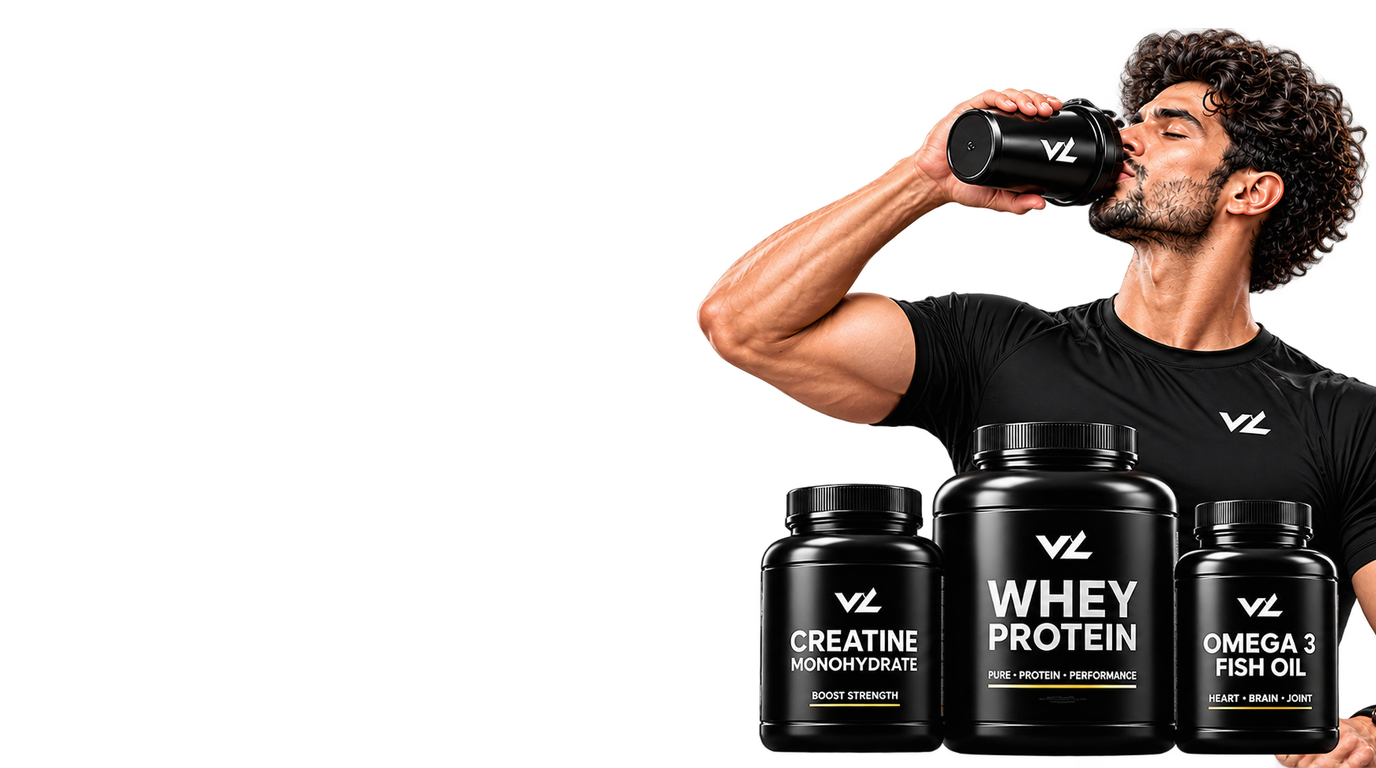
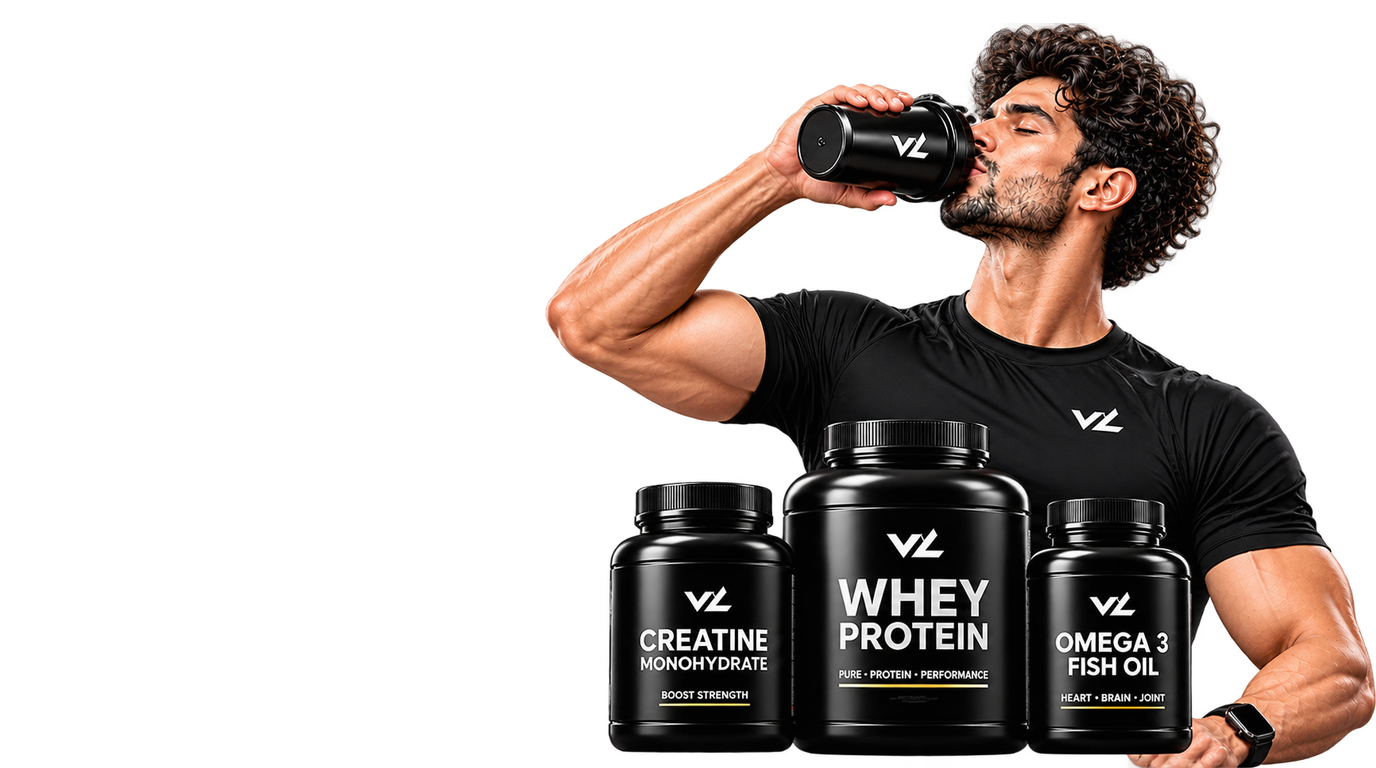
style(hero): reduce headline size on mobile UI and align cutouts flush right

diff --git a/src/components/VittalLifestyleStorefront.tsx b/src/components/VittalLifestyleStorefront.tsx
@@ -215,14 +215,14 @@ export function VittalLifestyleStorefront({ initialProducts }: VittalLifestyleSt
           </div>
 
           {/* Static Left Content Overlay (Never changes) */}
-          <div className="relative z-10 px-5 sm:px-8 lg:px-12 py-6 sm:py-8 md:py-10 max-w-[64%] sm:max-w-md md:max-w-lg lg:max-w-xl">
+          <div className="relative z-10 px-4 sm:px-8 lg:px-12 py-5 sm:py-8 md:py-10 max-w-[50%] xs:max-w-[48%] sm:max-w-md md:max-w-lg lg:max-w-xl">
             {/* Black Pill Eyebrow Badge */}
-            <div className="inline-block bg-[#111111] text-white text-[10px] sm:text-xs font-semibold px-3 sm:px-3.5 py-1 rounded-full mb-2.5 sm:mb-3.5 shadow-xs">
+            <div className="inline-block bg-[#111111] text-white text-[9px] sm:text-xs font-semibold px-2.5 sm:px-3.5 py-0.5 sm:py-1 rounded-full mb-2 sm:mb-3.5 shadow-xs">
               Limited Offer
             </div>
 
-            {/* Headline matching reference */}
-            <h1 className="font-mograph font-bold text-xl sm:text-3xl md:text-4xl lg:text-5xl text-[#111111] leading-[1.12] tracking-tight mb-3.5 sm:mb-6">
+            {/* Headline matching reference - mobile size reduced for clean separation from cutouts */}
+            <h1 className="font-mograph font-bold text-[15px] xs:text-base sm:text-2xl md:text-3xl lg:text-4xl xl:text-5xl text-[#111111] leading-tight sm:leading-[1.12] tracking-tight mb-2.5 sm:mb-6">
               First Purchase Enjoy
               <br />
               a Special Offer
@@ -231,11 +231,11 @@ export function VittalLifestyleStorefront({ initialProducts }: VittalLifestyleSt
             {/* Black Pill CTA Button with White Circle Up-Right Arrow -> Redirects to /products */}
             <Link
               href="/products"
-              className="inline-flex items-center gap-3 bg-[#111111] hover:bg-black text-white font-bold text-xs sm:text-sm pl-4.5 pr-1.5 py-1.5 sm:pl-5 sm:pr-2 sm:py-2 rounded-full transition-all duration-300 shadow-md hover:shadow-lg hover:scale-105 group"
+              className="inline-flex items-center gap-2 sm:gap-3 bg-[#111111] hover:bg-black text-white font-bold text-[11px] sm:text-sm pl-3.5 pr-1 py-1 sm:pl-5 sm:pr-2 sm:py-2 rounded-full transition-all duration-300 shadow-md hover:shadow-lg hover:scale-105 group"
             >
               <span>Shop Now</span>
-              <div className="w-7 h-7 sm:w-8 sm:h-8 rounded-full bg-white text-[#111111] flex items-center justify-center shrink-0 group-hover:translate-x-0.5 group-hover:-translate-y-0.5 transition-transform shadow-xs">
-                <ArrowUpRight className="w-3.5 h-3.5 sm:w-4 sm:h-4 stroke-[2.5]" />
+              <div className="w-6 h-6 sm:w-8 sm:h-8 rounded-full bg-white text-[#111111] flex items-center justify-center shrink-0 group-hover:translate-x-0.5 group-hover:-translate-y-0.5 transition-transform shadow-xs">
+                <ArrowUpRight className="w-3 h-3 sm:w-4 sm:h-4 stroke-[2.5]" />
               </div>
             </Link>
           </div>
